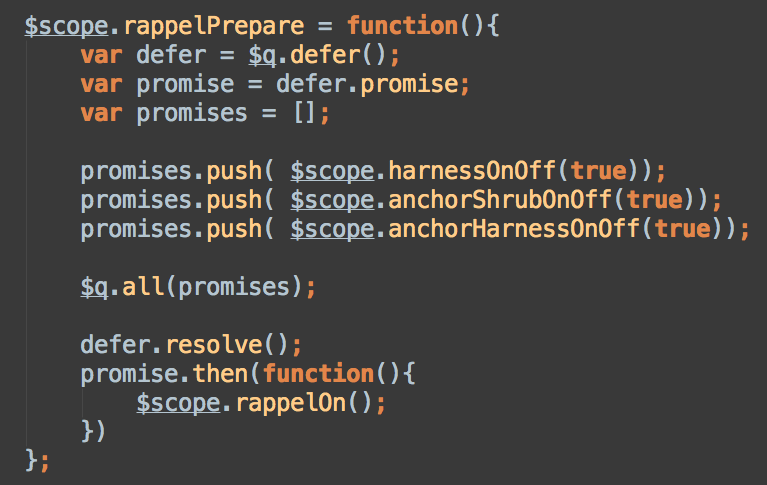
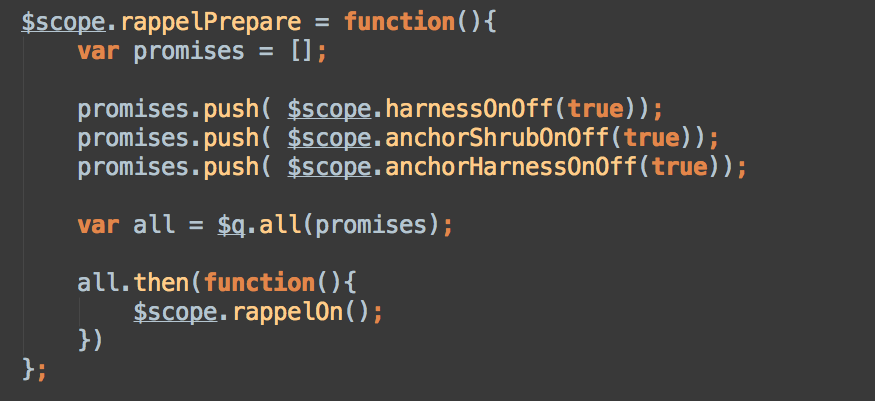
Fixed $q.all

diff --git a/src/main/webapp/app/js/controllers/RopeController.js b/src/main/webapp/app/js/controllers/RopeController.js
@@ -77,20 +77,17 @@ angular.module('myApp').controller('RopeController', function ($scope, RopeServi
         defer.resolve();
         defer.reject("Error occurred");
     };
-
+//
 //    $scope.rappelPrepare = function(){
-//        var defer = $q.defer();
-//        var promise = defer.promise;
 //        var promises = [];
 //
 //        promises.push( $scope.harnessOnOff(true));
 //        promises.push( $scope.anchorShrubOnOff(true));
 //        promises.push( $scope.anchorHarnessOnOff(true));
 //
-//        $q.all(promises);
+//        var all = $q.all(promises);
 //
-//        defer.resolve();
-//        promise.then(function(){
+//        all.then(function(){
 //            $scope.rappelOn();
 //        })
 //    };
